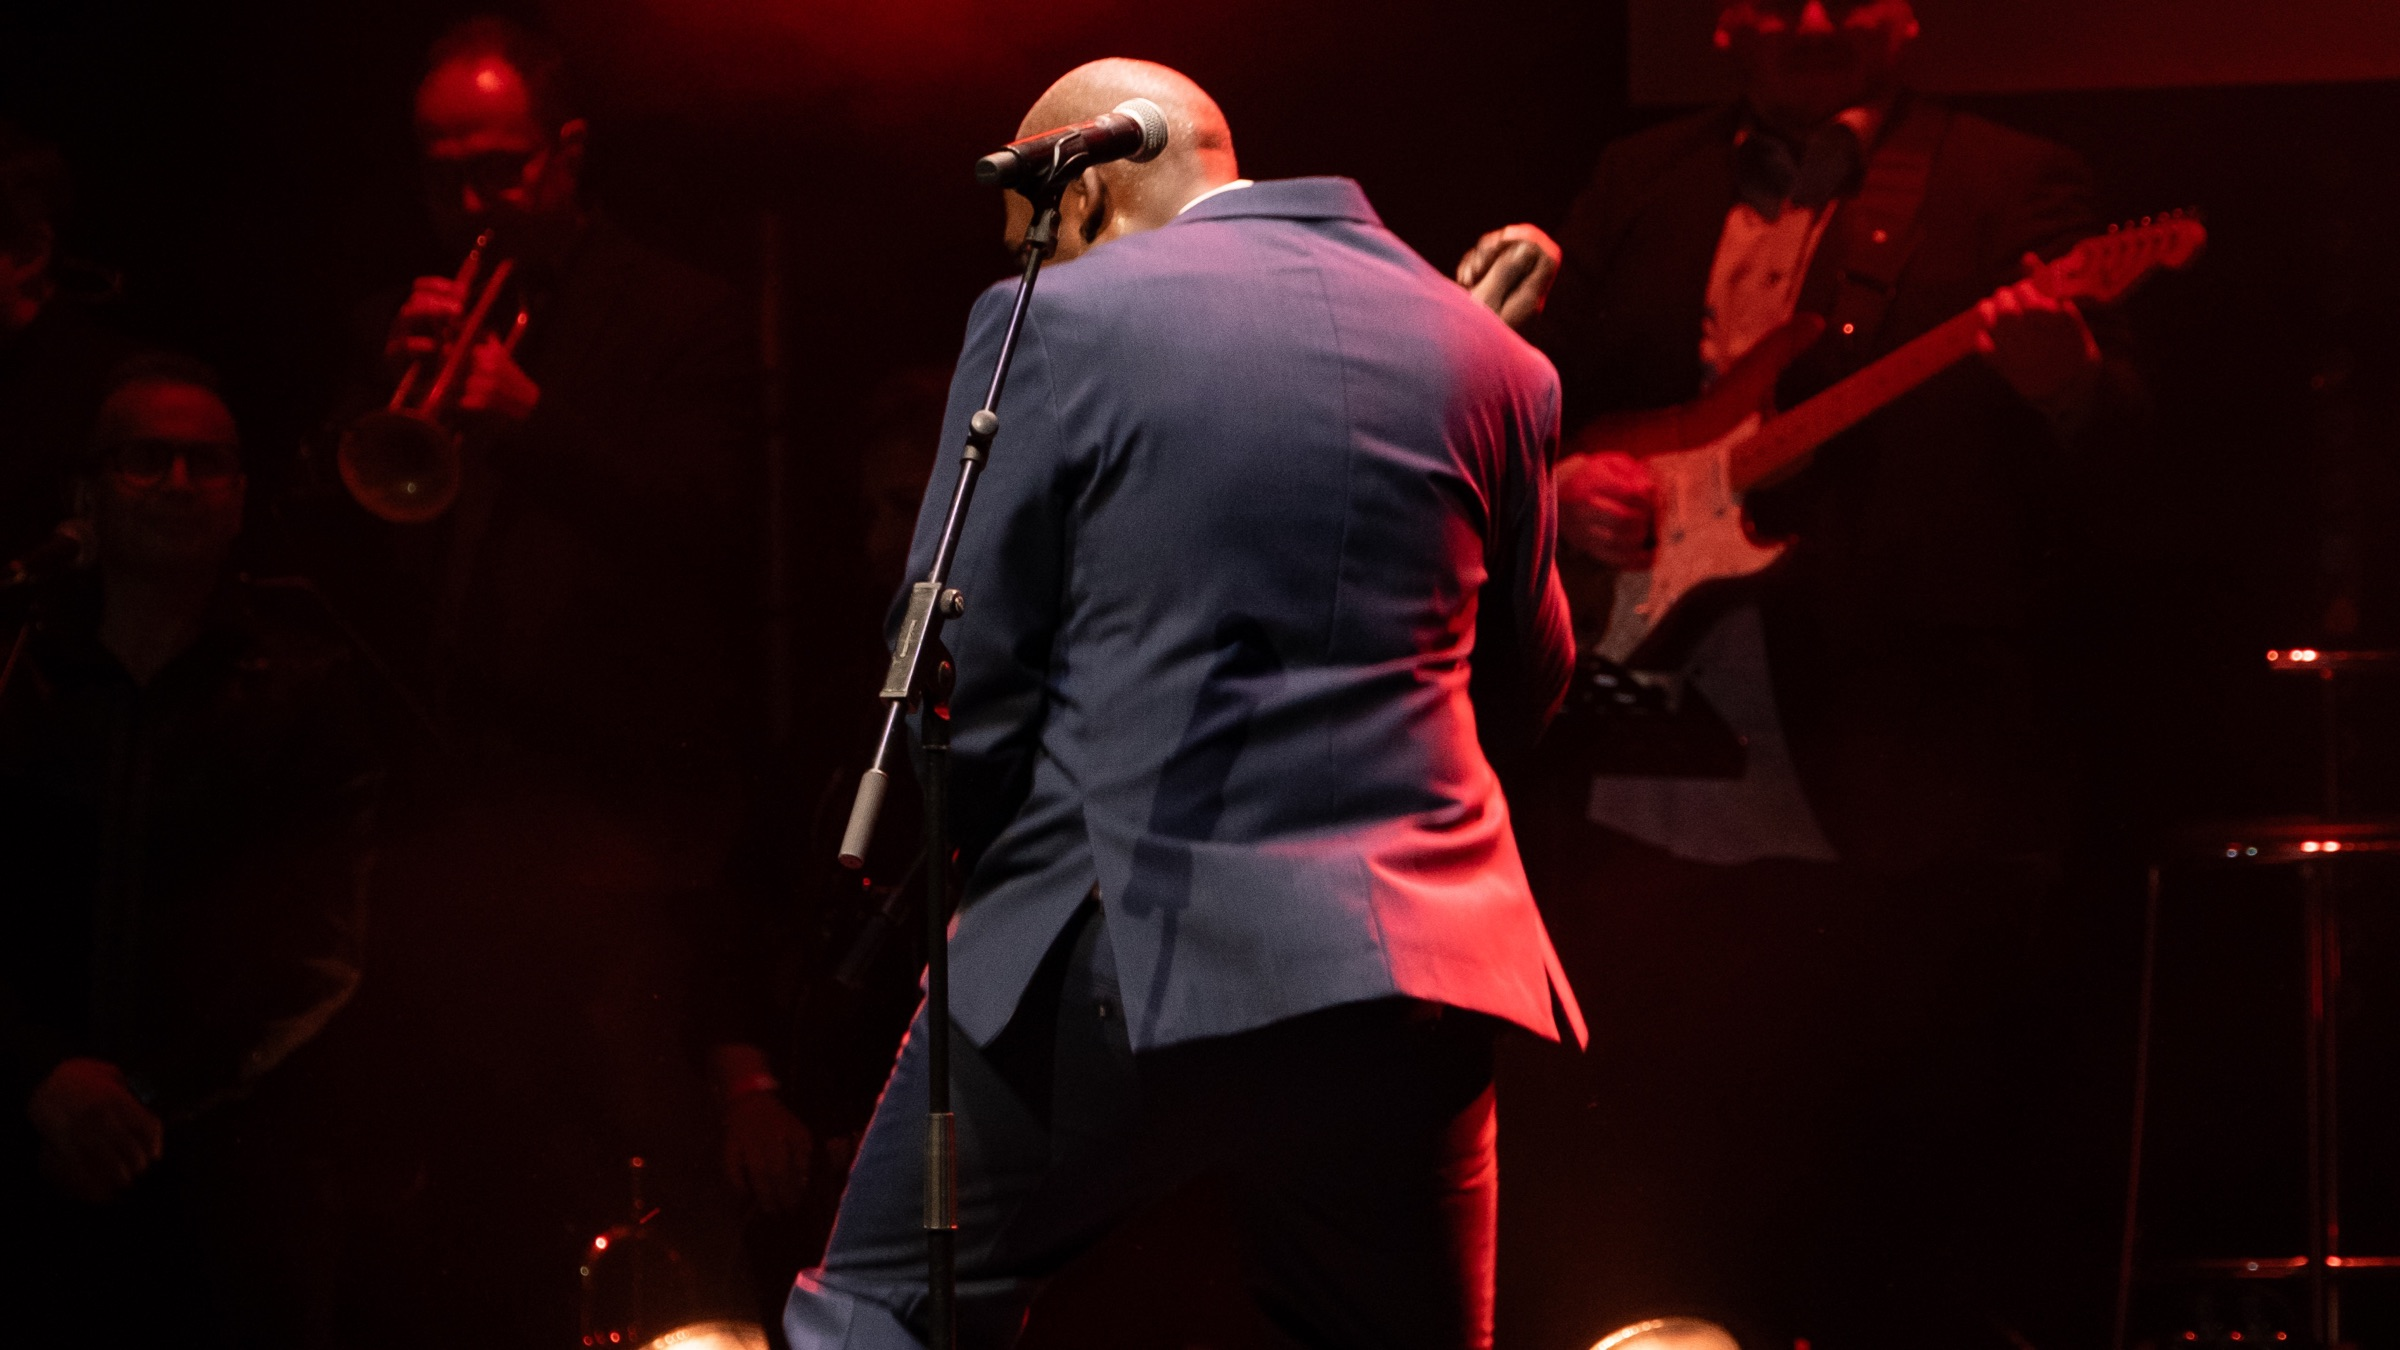
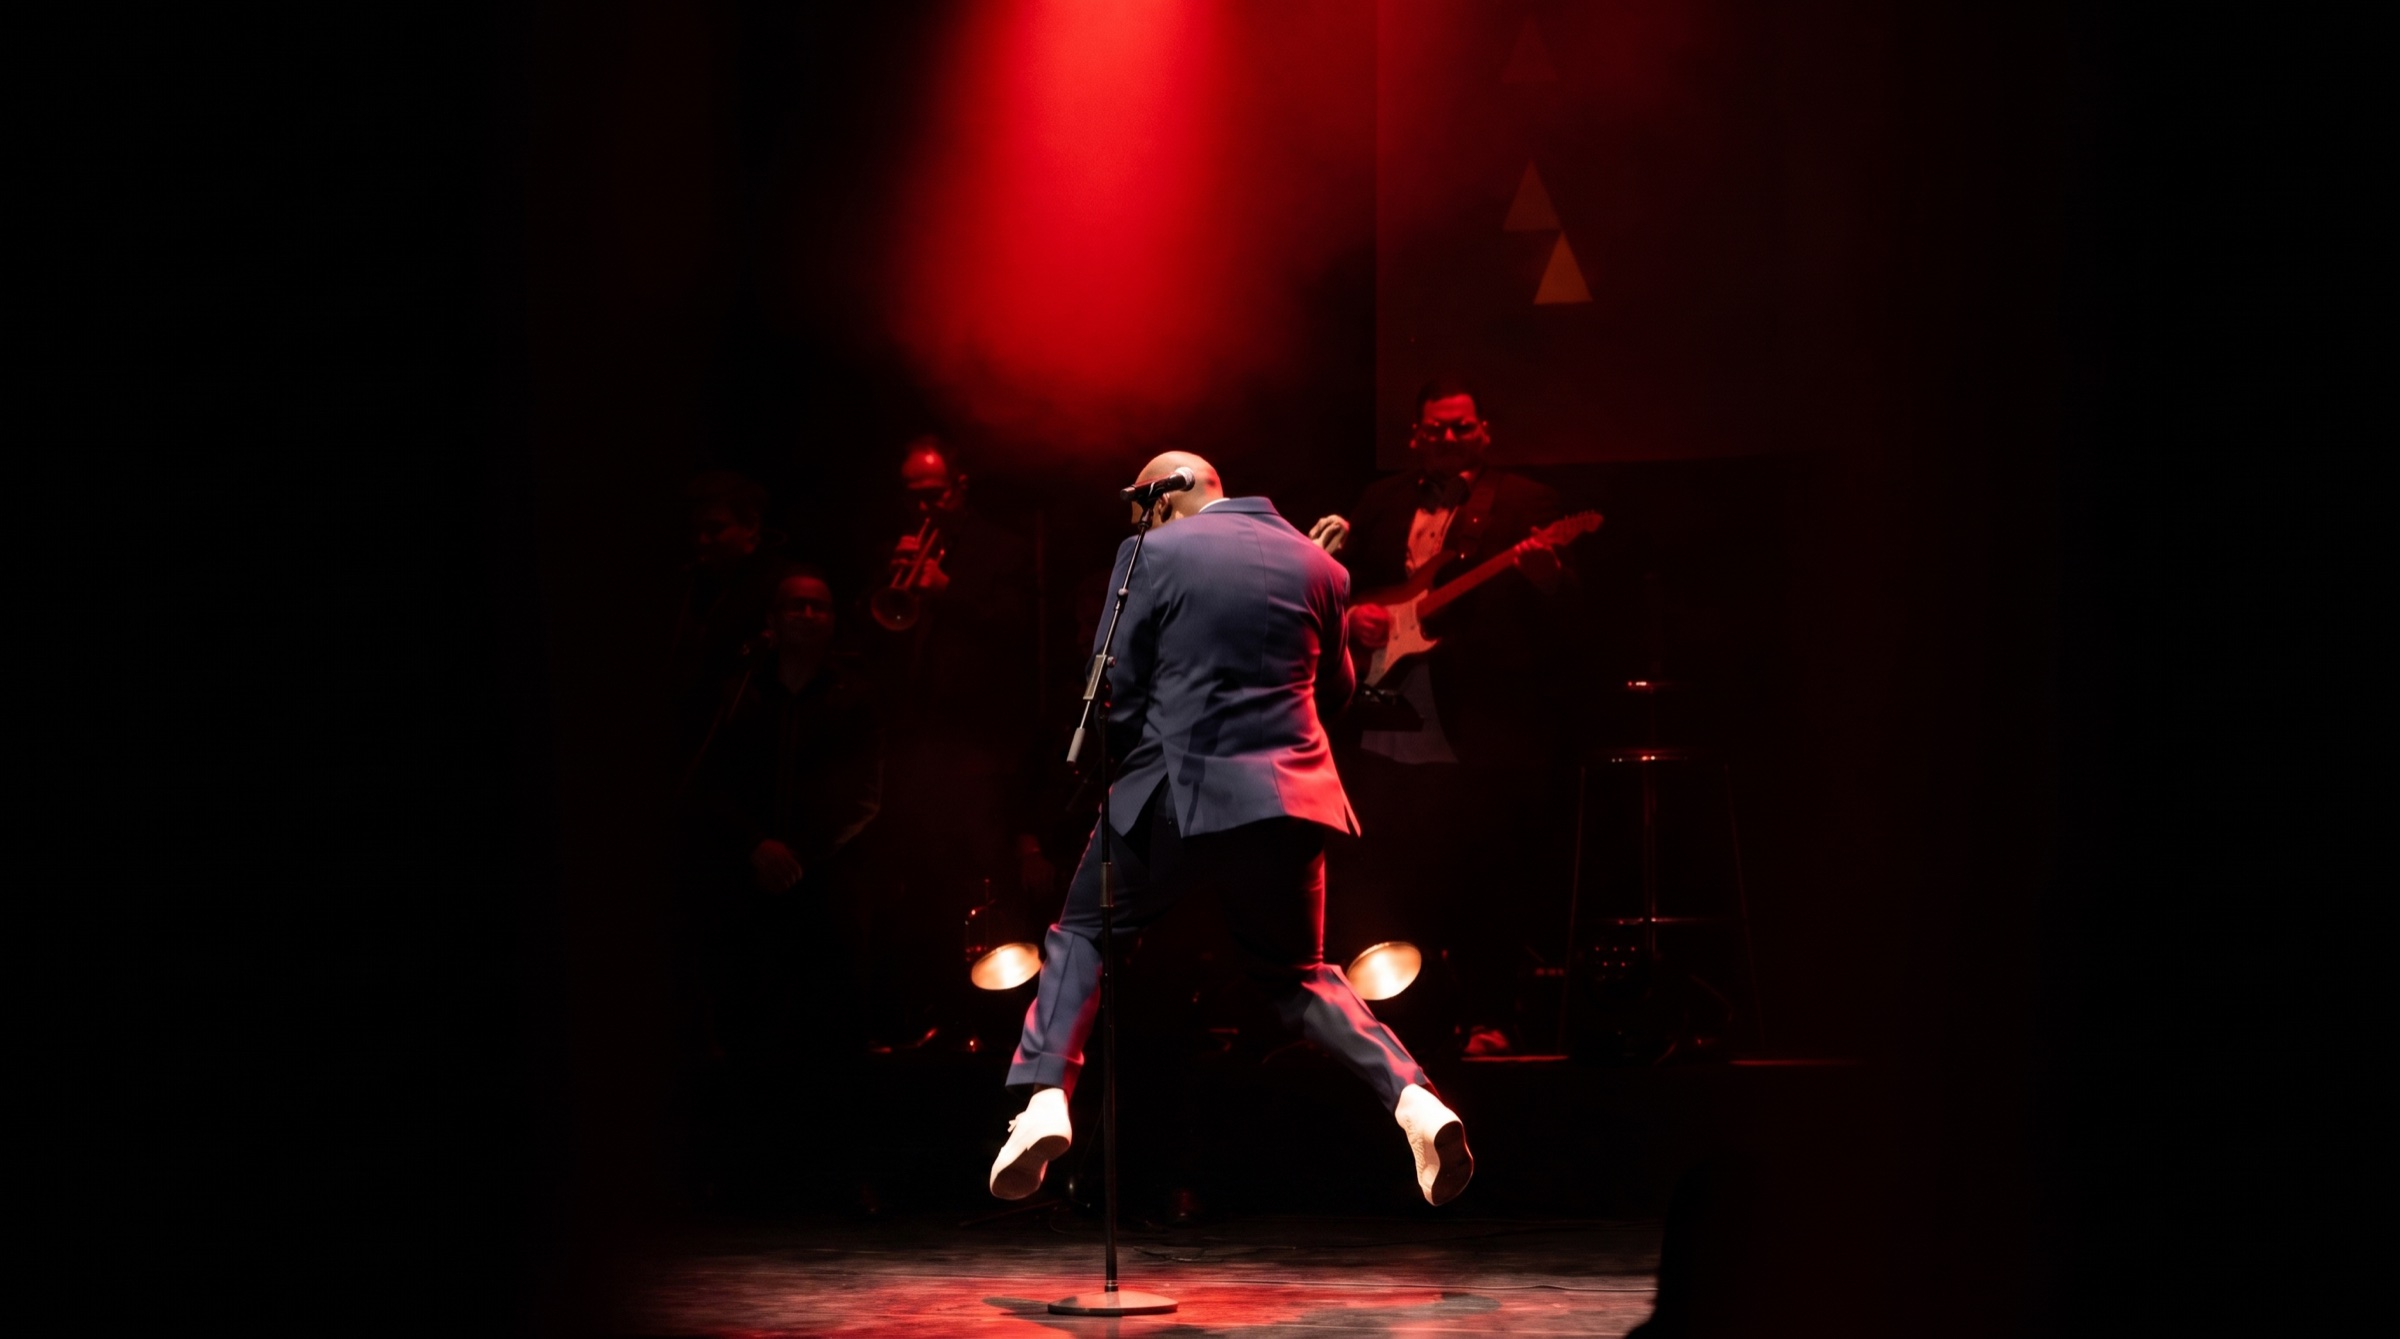
Add files via upload

diff --git a/css/style.css b/css/style.css
@@ -180,8 +180,9 @@ p{margin:0 0 1em;}
 
 /* ---------- Concerts ---------- */
 .concerts{
-  position:relative; background-size:cover; background-position:center 20%;
-  padding:8em 1.5em;
+  position:relative; background-size:contain; background-position:center center;
+  background-repeat:no-repeat; background-color:#000;
+  padding:8em 1.5em; min-height:85vh;
 }
 .concerts-overlay{ position:absolute; inset:0; background:rgba(8,6,6,.72); }
 .concerts-content{ position:relative; z-index:2; max-width:var(--maxw); margin:0 auto; }
@@ -281,7 +282,7 @@ p{margin:0 0 1em;}
   .newsletter-form{ flex-direction:column; }
   .dates-list li{ flex-wrap:wrap; }
   .hero{ background-position:25% center; }
-  .concerts{ background-position:35% center; }
+  .concerts{ min-height:60vh; }
   .news{ background-position:15% center; min-height:38vh; }
   .contact-email{ font-size:1.1rem; }
 }
